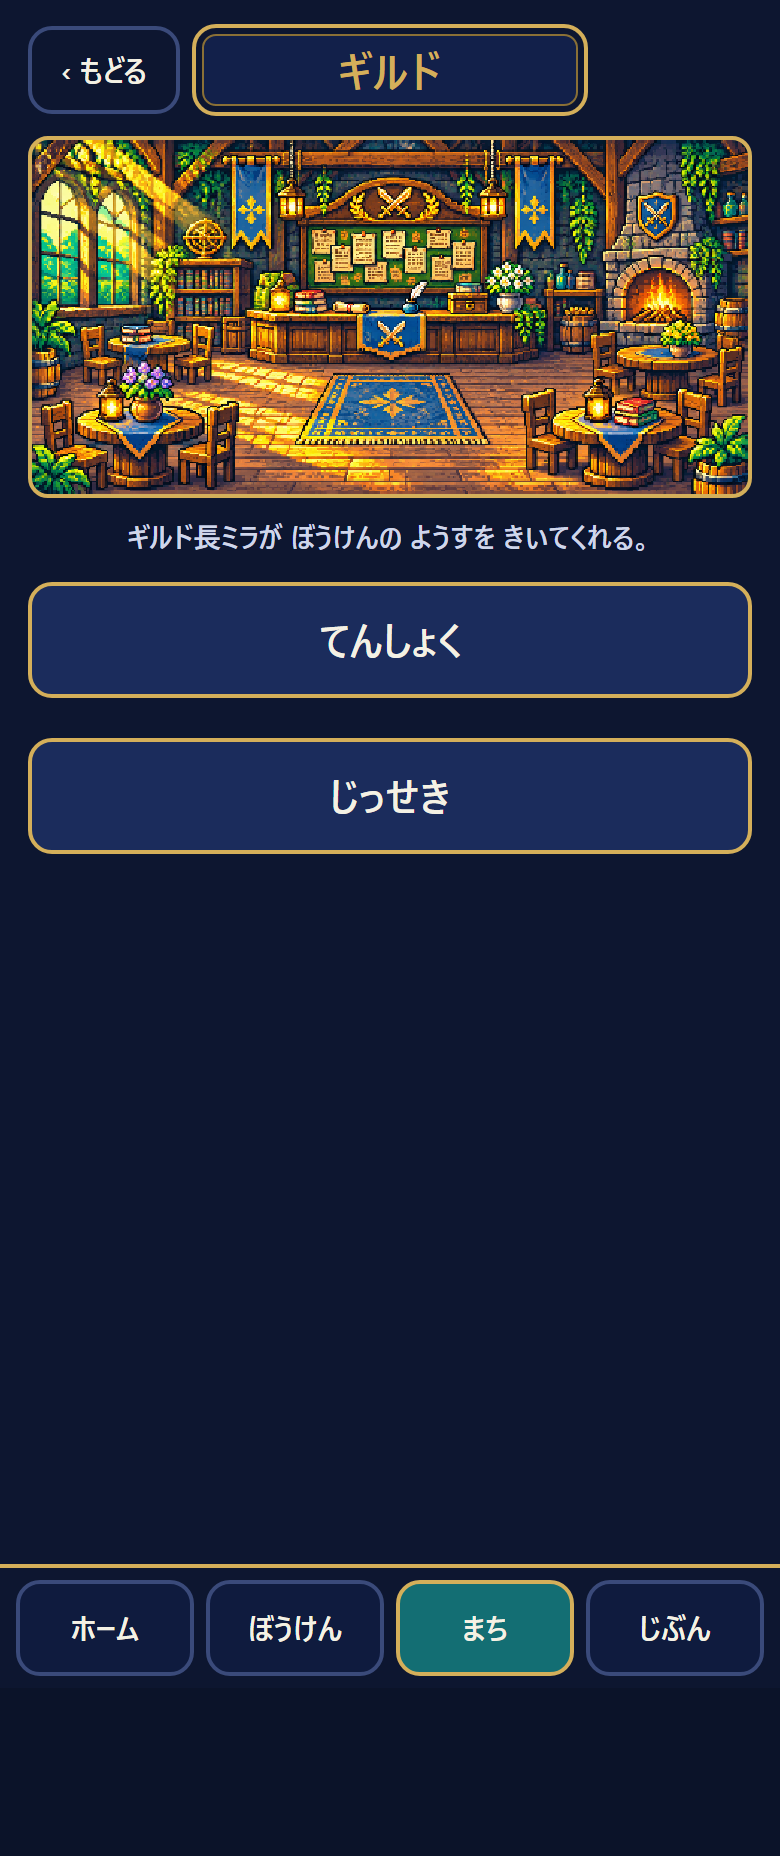
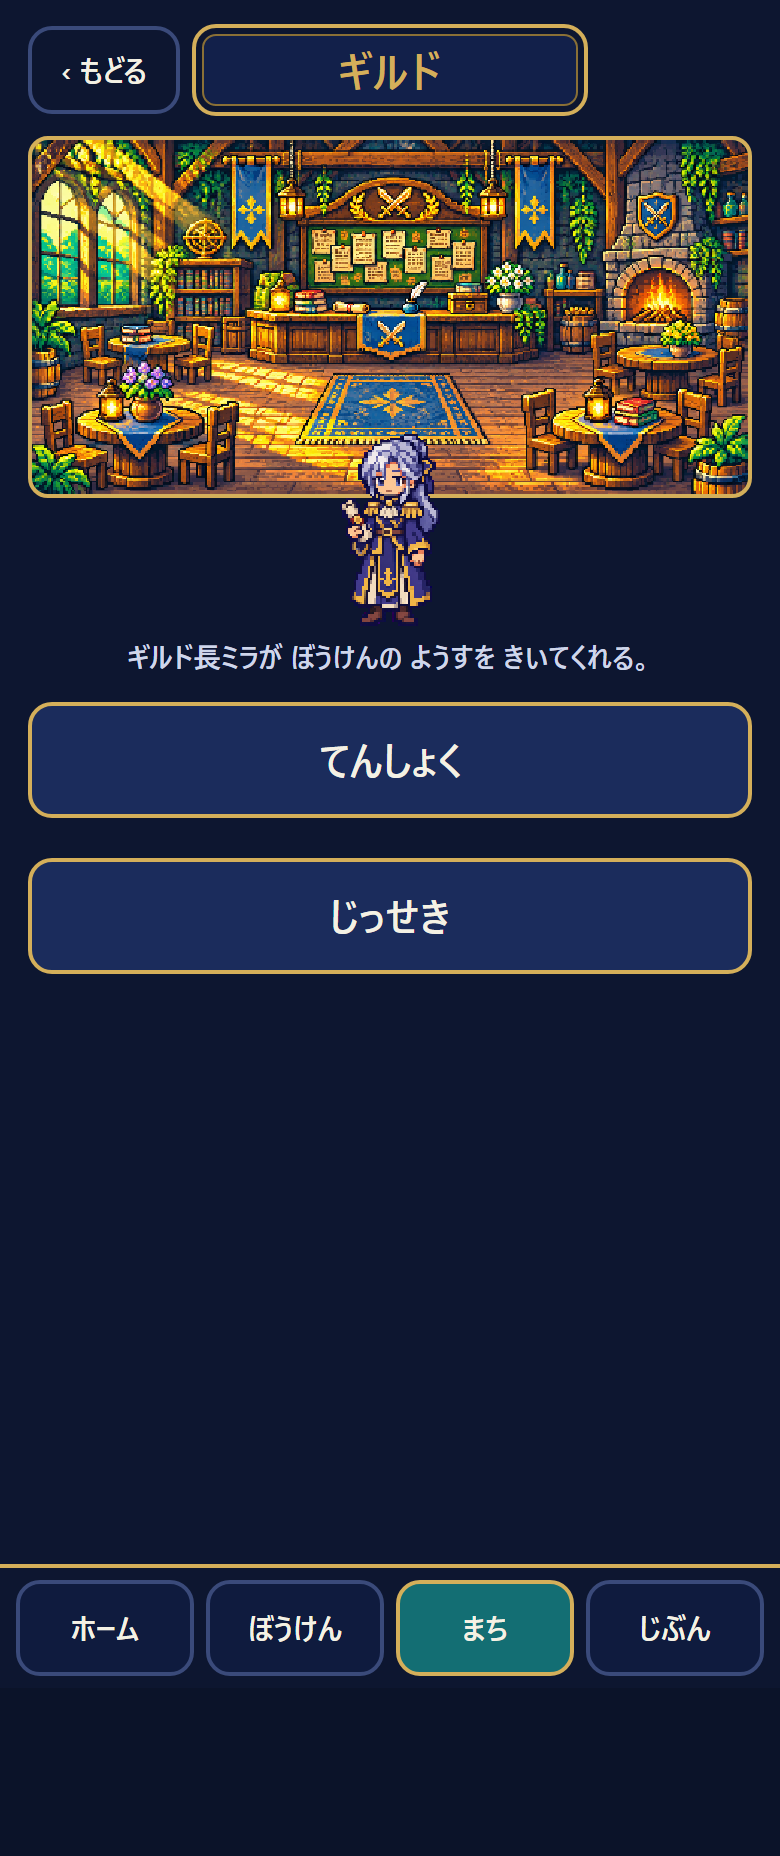
RPG素材: NPC4立ち絵・記念絵4・世界地図を正式化し画面につなぐ

Changed region(s): [[0.0308, 0.2188, 0.9846, 0.5312]]

diff --git a/rpg/js/rpg-screens.js b/rpg/js/rpg-screens.js
@@ -116,7 +116,7 @@
         <button class="rs-big" id="rsStart">がくしゅうを えらんで スタート</button></div>
       <div class="rs-panel"><div class="rs-h2">わざと さくせん</div><p class="rs-p">${sk.map(esc).join('・')}／さくせん：${esc(tac)}</p><button class="rs-btn" data-go="loadout">わざ・さくせんを かえる</button></div>
       <div class="rs-panel"><div class="rs-h2">宝箱の おねがい</div><p class="rs-p">朝星の宝箱から レアが出るとき、この種類から えらばれます。</p><div class="rs-chips" role="group">${wish}</div></div>
-      <div class="rs-panel">${chapters}</div>`, { back: false });
+      <div class="rs-panel">${imgOf('bg_worldmap') ? `<div class="rs-h2">せかいちず（浮島世界ルミナリア）</div><img class="rs-wmap" alt="浮島世界ルミナリアの ちず" src="${imgOf('bg_worldmap').src}">` : ''}${chapters}</div>`, { back: false });
   };
   AFTER.adv = function () {
     const c = doc.getElementById('rsEnemy'); if (c) { const s = save(), r = A.currentRoute(s); enemyCv(c, r.enemy, D.ENEMIES[r.enemy].boss, 4); }
@@ -447,11 +447,25 @@
     doc.getElementById('enNext').onclick = () => { if ((UI.endI || 0) >= 3) done(); else { UI.endI = (UI.endI || 0) + 1; rerender(); } };
     doc.getElementById('enSkip').onclick = done;
   };
+  const MEMOS = [['ch1', 'だい1しょう', s => chCleared(s, 1)], ['ch2', 'だい2しょう', s => chCleared(s, 2)], ['main', 'ほんぺん', s => mainCleared(s)], ['dawnisle', '夜明けの 孤島', () => true]];
+  const memoImg = id => imgOf('bg_memorial_' + id);
   VIEWS.memorial = function () {
-    const s = save(); return frame('きねんえ', `<div class="rs-panel c"><canvas id="rsMemo" class="rs-memo" aria-label="夜明けの きねんえ（仮の絵）"></canvas><p class="rs-p">「${esc((s.rewards.titles.includes('空の果てを見た者')) ? '空の果てを見た者' : 'まだ ありません')}」　${s.rewards.lamp ? '夜明けの灯を ともした。' : ''}</p><p class="rs-p">これは コードで かいた 仮の絵です。</p></div>`);
+    const s = save(), title = (s.rewards.titles.includes('空の果てを見た者')) ? '空の果てを見た者' : 'まだ ありません';
+    if (!memoImg('dawnisle')) return frame('きねんえ', `<div class="rs-panel c"><canvas id="rsMemo" class="rs-memo" aria-label="夜明けの きねんえ（仮の絵）"></canvas><p class="rs-p">「${esc(title)}」　${s.rewards.lamp ? '夜明けの灯を ともした。' : ''}</p><p class="rs-p">これは コードで かいた 仮の絵です。</p></div>`);
+    const list = MEMOS.filter(m => memoImg(m[0]) && m[2](s));
+    return frame('きねんえ', list.map(m => `<div class="rs-panel c"><div class="rs-h3">${esc(m[1])}の きねんえ</div><canvas ${m[0] === 'dawnisle' ? 'id="rsMemo" ' : ''}class="rs-memo" data-m="${m[0]}" aria-label="${esc(m[1])}の きねんえ"></canvas></div>`).join('') + `<div class="rs-panel c"><p class="rs-p">「${esc(title)}」　${s.rewards.lamp ? '夜明けの灯を ともした。' : ''}</p></div>`);
   };
   AFTER.memorial = function () {
-    const c = doc.getElementById('rsMemo'), s = save(), w = 100, h = 66, k = Math.max(2, Math.floor(Math.min(360, c.parentNode.clientWidth - 24) / w));
+    const s = save();
+    if (memoImg('dawnisle')) {
+      app().querySelectorAll('canvas[data-m]').forEach(c => {
+        const im = memoImg(c.dataset.m), w = im.width, h = im.height; c.width = w; c.height = h; c.style.width = '100%'; c.style.maxWidth = (w * 1.2) + 'px'; c.style.height = 'auto';
+        const g = c.getContext('2d'); g.imageSmoothingEnabled = false; g.drawImage(im, 0, 0);
+        SP.drawHero(g, s.job, Math.round(w * 0.34) - 7, h - 14, { img: 'reward', pose: 'win', look: look(), outfit: M.costumeColor(s) });
+      });
+      return;
+    }
+    const c = doc.getElementById('rsMemo'), w = 100, h = 66, k = Math.max(2, Math.floor(Math.min(360, c.parentNode.clientWidth - 24) / w));
     c.width = w; c.height = h; c.style.width = (w * k) + 'px'; c.style.height = (h * k) + 'px'; const g = c.getContext('2d');
     SP.drawBackground(g, w, h, 'dawnisle'); g.fillStyle = '#ffe27a'; g.beginPath(); g.arc(70, 24, 9, 0, 7); g.fill();
     g.save(); g.scale(2, 2); SP.drawHero(g, s.job, 12, 32, { look: look(), outfit: M.costumeColor(s) }); SP.drawEnemy(g, 'xb_dawndragon', true, 28, 30, { lift: 2 }); g.restore();

diff --git a/rpg/css/rpg-screens.css b/rpg/css/rpg-screens.css
@@ -143,3 +143,4 @@ body:has(.rs){background:#0b1329}
 .rs-room{width:100%;max-width:480px;aspect-ratio:2/1;margin:0 auto 8px;background-size:100% 100%;image-rendering:pixelated;border:2px solid var(--gold);border-radius:10px}
 .rs-npc{display:block;margin:-40px auto 4px;height:96px;image-rendering:pixelated;position:relative}
 .rs-npc.story{margin:0 auto 6px;height:88px}
+.rs-wmap{display:block;width:100%;max-width:360px;margin:0 auto 10px;image-rendering:pixelated;border:2px solid var(--gold);border-radius:10px}

diff --git a/rpg/assets/tools/town_shots.py b/rpg/assets/tools/town_shots.py
@@ -9,7 +9,7 @@ srv = socketserver.TCPServer(('127.0.0.1', 18437), functools.partial(Q, director
 con = []
 def put(pg, name):
     t = open(os.path.join(SAVES, name + '.json'), encoding='utf-8').read()
-    pg.evaluate("t => localStorage.setItem('ichimon.rpg.v1', t)", t); pg.reload(); pg.wait_for_selector('.subj'); pg.wait_for_function("() => RPGSprites.IMGS.town_airship && RPGSprites.IMGS.bg_town"); pg.wait_for_timeout(300)
+    pg.evaluate("t => localStorage.setItem('ichimon.rpg.v1', t)", t); pg.reload(); pg.wait_for_selector('.subj'); pg.wait_for_function("() => RPGSprites.IMGS.town_airship && RPGSprites.IMGS.bg_town && RPGSprites.IMGS.bg_memorial_dawnisle"); pg.wait_for_timeout(300)
 with sync_playwright() as p:
     b = p.chromium.launch(headless=True); pg = b.new_context(viewport={'width': 390, 'height': 844}, device_scale_factor=2, is_mobile=True, has_touch=True).new_page()
     pg.on('console', lambda m: con.append(m.text) if m.type == 'error' else None); pg.on('pageerror', lambda e: con.append(str(e)))
@@ -22,4 +22,11 @@ with sync_playwright() as p:
     for pl in ('guild', 'shop', 'forge', 'temple', 'room'):
         pg.click('.rs-tab[data-tab=town]'); pg.click(f'[data-place={pl}]'); pg.wait_for_timeout(400)
         pg.screenshot(path=os.path.join(OUT, f'assets_room_{pl}.png'), full_page=True)
+    for sv in ('ch2end', 'postgame'):
+        put(pg, sv); pg.evaluate("() => RPG.open('memorial')"); pg.wait_for_timeout(600)
+        print(sv, 'memo', pg.evaluate("() => document.querySelectorAll('canvas[data-m]').length"))
+        pg.screenshot(path=os.path.join(OUT, f'assets_memorial_{sv}.png'), full_page=True)
+    put(pg, 'day01'); pg.click('.rs-tab[data-tab=adv]'); pg.wait_for_timeout(500); pg.screenshot(path=os.path.join(OUT, 'assets_worldmap_adv.png'), full_page=True)
+    for k in ('mira', 'toto'):
+        pass
     print('console', con); b.close()

diff --git a/rpg/tools/ui_test4.py b/rpg/tools/ui_test4.py
@@ -116,7 +116,7 @@ with sync_playwright() as p:
         pg.click('[data-outfit=dawn]'); pg.wait_for_timeout(100); chk(E + 'outfit_saved', pg.evaluate(SAVE)['look']['outfit'] == 'dawn')
         pg.click('[data-title="空の果てを見た者"]'); pg.wait_for_timeout(100); chk(E + 'title_saved', pg.evaluate(SAVE)['title'] == '空の果てを見た者')
         if engine == 'chromium': shot(pg, 'p3_me_rewards')
-        pg.click('[data-go=memorial]'); pg.wait_for_selector('#rsMemo'); chk(E + 'memorial_canvas', pg.evaluate("() => document.getElementById('rsMemo').width") == 100)
+        pg.click('[data-go=memorial]'); pg.wait_for_selector('#rsMemo'); chk(E + 'memorial_canvas', pg.evaluate("() => document.getElementById('rsMemo').width") in (100, 300))
         if engine == 'chromium': shot(pg, 'p3_memorial')
         m = metrics(pg); chk(E + 'memorial_ok', not m['hscroll'] and not m['small'], m)
         pg.evaluate("() => RPG.go('codex')"); pg.wait_for_selector('.rs-cgrid')

diff --git a/rpg/assets/tools/npc_alt.py b/rpg/assets/tools/npc_alt.py
@@ -1,0 +1,6 @@
+# python npc_alt.py <mira|toto|luca|knight> : 表情差分を、立ち絵と同じ縮尺で縮めて chars/npc_<k>_alt.png にする
+import sys, os, json, subprocess
+A = os.path.abspath(os.path.join(os.path.dirname(__file__), '..')); R = os.path.abspath(os.path.join(A, '..', '..'))
+for k in sys.argv[1:]:
+    i = json.load(open(f'{A}/src/npc_{k}/inspect.json', encoding='utf-8')); sc = i['out_size'][1] / i['trim_size'][1]
+    print(subprocess.run([sys.executable, f'{A}/tools/process.py', 'sprite', f'npc_{k}_alt', f'{A}/src/npc_{k}_alt/npc_{k}_alt.png', repr(sc)], capture_output=True, text=True, cwd=R).stdout[:200])
